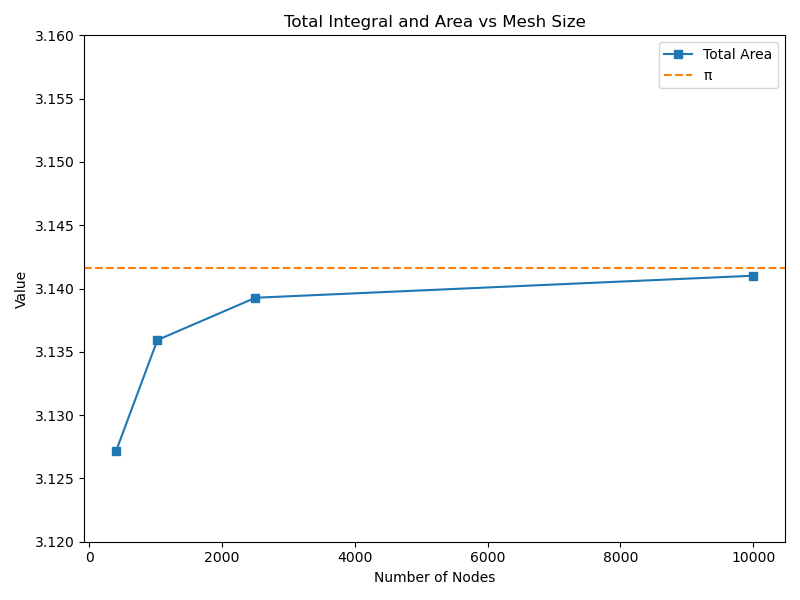
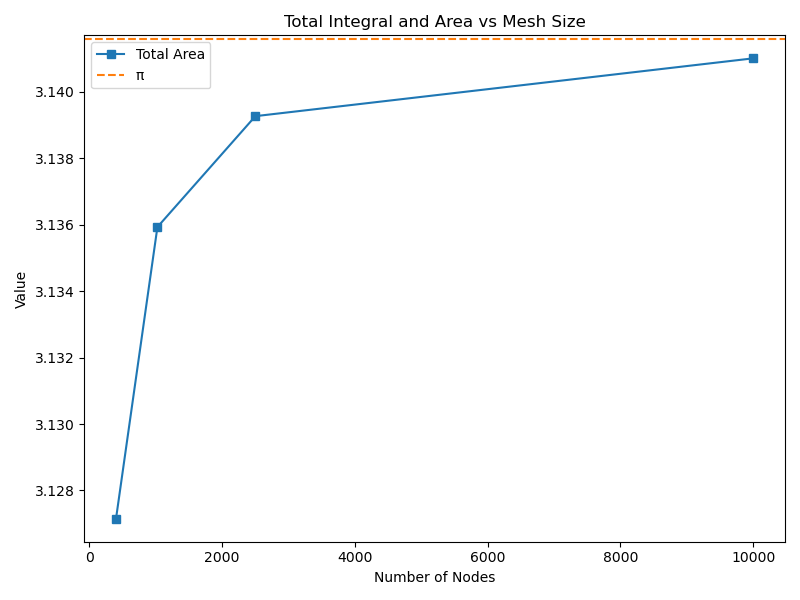
update

diff --git a/Mesh.py b/Mesh.py
@@ -302,11 +302,18 @@ if __name__ == "__main__":
     plot_dir = "meshes/plots"
     os.makedirs(plot_dir, exist_ok=True)
 
+    # Open results.txt for writing all print outputs
+    results_file = open(os.path.join(plot_dir, "results.txt"), "w")
+
+    def print_and_log(*args, **kwargs):
+        print(*args, **kwargs)
+        print(*args, **kwargs, file=results_file)
+
     coordinates = np.loadtxt('meshes/coordinates_dolfin_coarse.txt')
     nodes = np.loadtxt('meshes/nodes_dolfin_coarse.txt')
     mesh = Mesh(coordinates=coordinates, nodes=nodes)
     mesh.draw(save_path=os.path.join(plot_dir, 'mesh_plot_dolfin_coarse.png'))
-    print(f"Total area of dolfin_coarse mesh: {mesh.total_area()}, Total integral: {mesh.total_integral(lambda x, y: 1)}")
+    print_and_log(f"Total area of dolfin_coarse mesh: {mesh.total_area()}, Total integral: {mesh.total_integral(lambda x, y: 1)}")
 
     # List of mesh sizes and corresponding file names
     mesh_sizes = [400, 1024, 2500, 10000]
@@ -323,13 +330,12 @@ if __name__ == "__main__":
         total_areas.append(area)
         # Save mesh plot for each mesh size
         m.draw(save_path=os.path.join(plot_dir, f'mesh_plot_{size}.png'))
-        print(f"Mesh size: {size}, Total area: {area}, Total integral: {integral}")
+        print_and_log(f"Mesh size: {size}, Total area: {area}, Total integral: {integral}")
 
     # Plotting
     plt.figure(figsize=(8, 6))
     plt.plot(mesh_sizes, total_areas, 's-', label='Total Area')
     plt.axhline(y=math.pi, color='tab:orange', linestyle='--', label='π', zorder=0)
-    plt.ylim(3.12, 3.16)
     plt.xlabel('Number of Nodes')
     plt.ylabel('Value')
     plt.title('Total Integral and Area vs Mesh Size')
@@ -359,7 +365,7 @@ if __name__ == "__main__":
             diff = abs(integral - analytical_val)
             integrals.append(integral)
             diffs.append(diff)
-            print(f"{fname}: Mesh size {size}, Integral {integral:.6f}, Analytical: {analytical_str} ({analytical_val:.6f}), Difference: {diff:.6e}")
+            print_and_log(f"{fname}: Mesh size {size}, Integral {integral:.6f}, Analytical: {analytical_str} ({analytical_val:.6f}), Difference: {diff:.6e}")
 
             # 3D plot of the function over the mesh nodes for all mesh sizes
             x = coordinates[0]
@@ -391,3 +397,5 @@ if __name__ == "__main__":
         safe_name = latex_name.replace(" ", "").replace("(", "").replace(")", "").replace("*", "star").replace("=", "").replace(",", "_").replace("$", "").replace("^", "pow").replace("{", "").replace("}", "")
         plt.savefig(os.path.join(plot_dir, f'integral_vs_meshsize_{safe_name}.png'))
         plt.close()
+
+    results_file.close()
